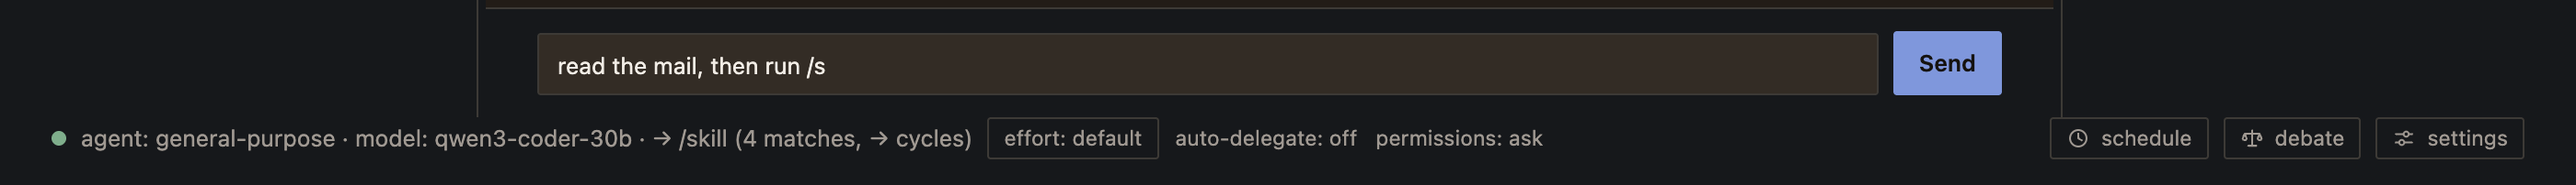
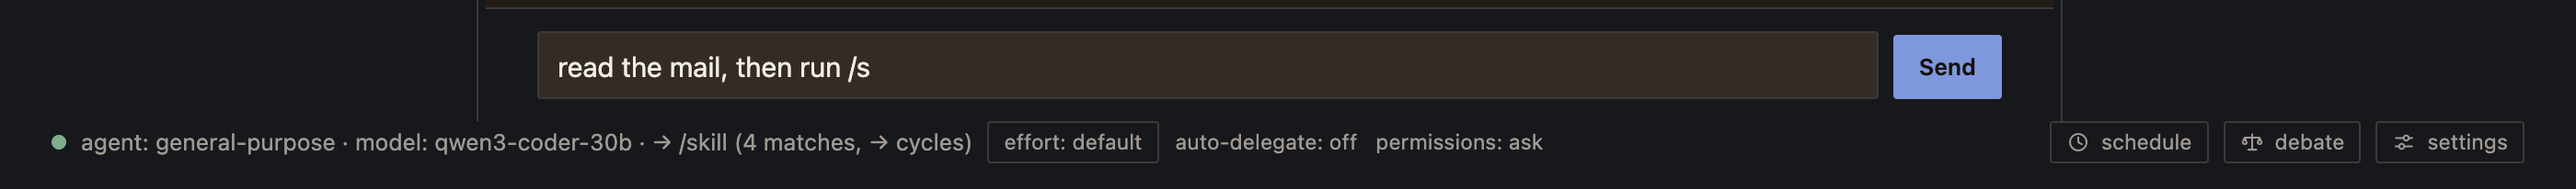
the prompt box is set a fifth larger than the strip around it
It is the one control on the page somebody looks at while typing into it,
often for several sentences, and it was set at the size of a status
readout — 12.5px, the same as "auto-delegate: off" beneath it.

A multiple rather than a number, so it stays a fifth larger than whatever
the interface is set to and follows the page's own zoom without a second
place to change. The `font` shorthand it replaced was resetting the size
the rule above it had just asked for, which is why a test pins both
halves.

diff --git a/internal/daemon/static/style.css b/internal/daemon/static/style.css
@@ -926,7 +926,14 @@ footer {
   color: var(--text);
   border-radius: var(--r-ctl);
   padding: 8px 10px;
-  font: inherit;
+  /* The interface face, a fifth larger than the interface.
+     This is the one control on the page somebody looks at while typing
+     into it, often for several sentences, and it was set at the size of
+     a status readout. em rather than a number, so it stays a fifth
+     larger than whatever the strip around it is set to and follows the
+     page's own zoom without a second place to change. */
+  font-family: inherit;
+  font-size: 1.2em;
   resize: none;
   overflow-y: auto;
   max-height: 240px;

diff --git a/internal/daemon/stylesheet_test.go b/internal/daemon/stylesheet_test.go
@@ -207,3 +207,34 @@ func TestTheTranscriptAndTheComposerShareOneGutter(t *testing.T) {
 		}
 	}
 }
+
+// The prompt box is set a fifth larger than the strip around it.
+//
+// It is the one control on the page somebody looks at while typing into
+// it, often for several sentences, and it was set at the size of a
+// status readout. Expressed as a multiple rather than a number so it
+// stays a fifth larger than whatever the interface is set to, and so the
+// page's own zoom carries it without a second place to change.
+func TestThePromptBoxIsLargerThanTheStripAroundIt(t *testing.T) {
+	css, err := os.ReadFile("static/style.css")
+	if err != nil {
+		t.Fatalf("read style.css: %v", err)
+	}
+	text := string(css)
+
+	i := strings.Index(text, "#input {")
+	if i < 0 {
+		t.Fatal("no #input rule in the stylesheet")
+	}
+	block := text[i:]
+	if j := strings.Index(block, "}"); j >= 0 {
+		block = block[:j]
+	}
+	if !strings.Contains(block, "font-size: 1.2em") {
+		t.Errorf("#input does not set font-size: 1.2em, so the prompt box is not a fifth larger:\n%s", block)
+	}
+	// font: inherit would win over the size and put it back where it was.
+	if strings.Contains(block, "font: inherit") {
+		t.Error("#input still sets the `font` shorthand, which resets the size it just asked for")
+	}
+}

diff --git a/docs/CHANGELOG.md b/docs/CHANGELOG.md
@@ -1,5 +1,11 @@
 # Changelog
 
+## v0.115.0
+
+**Web UI**
+
+* The prompt box is set a fifth larger than the strip around it. It is the one control on the page somebody looks at while typing into it, often for several sentences, and it was set at the size of a status readout. Expressed as a multiple, so it stays a fifth larger than whatever the interface is set to and follows the page's own zoom.
+
 ## v0.114.0
 
 **Slash commands**
